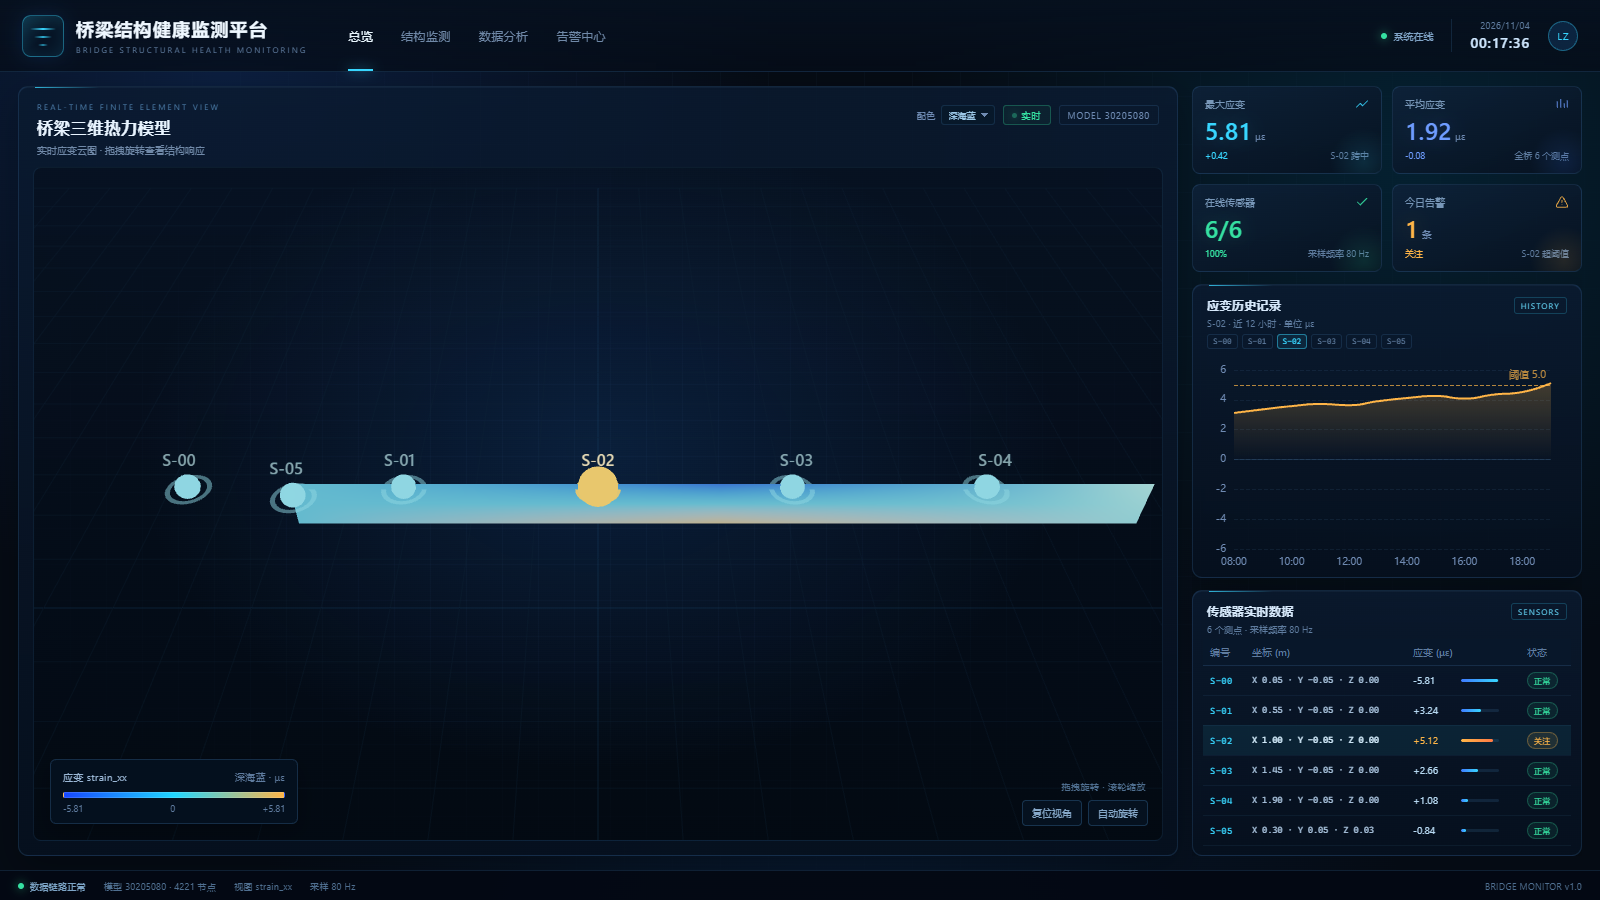
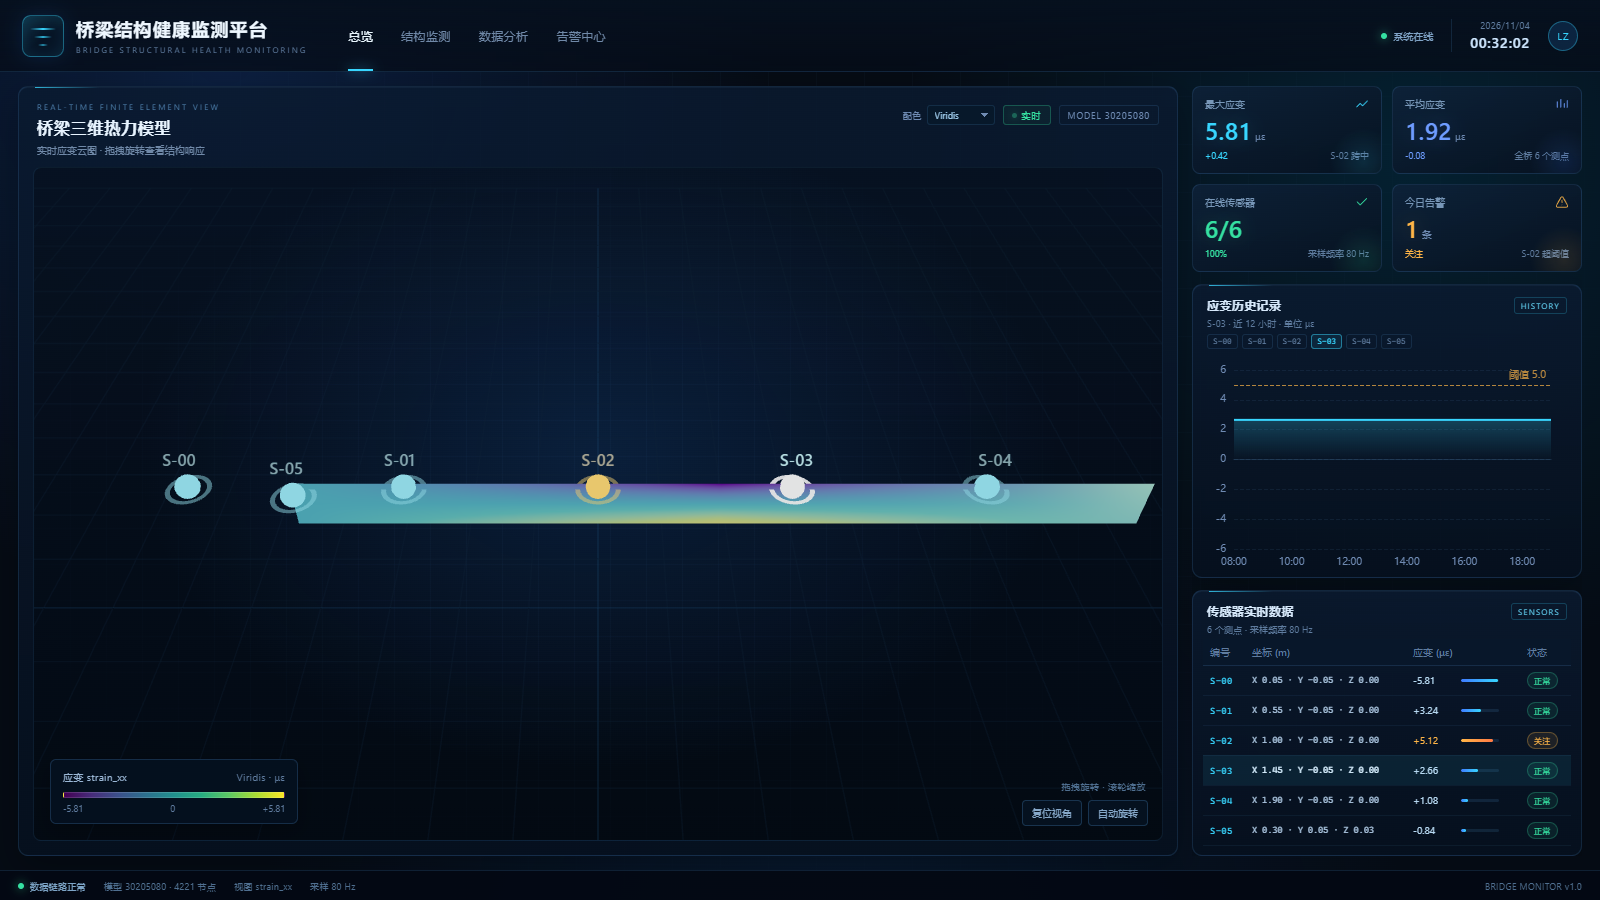
fix: use original palettes and refine sensor interactions

diff --git a/src/components/BridgeViewport.jsx b/src/components/BridgeViewport.jsx
@@ -58,7 +58,7 @@ function makeLabel(text, color) {
   return sprite
 }
 
-export default function BridgeViewport({ paletteName = 'ocean', selectedSensor = 'S-02', onSelectSensor }) {
+export default function BridgeViewport({ paletteName = 'viridis', selectedSensor = 'S-00', onSelectSensor }) {
   const hostRef = useRef(null)
   const controlsRef = useRef(null)
   const cameraRef = useRef(null)
@@ -72,7 +72,8 @@ export default function BridgeViewport({ paletteName = 'ocean', selectedSensor =
     selectedRef.current = selectedSensor
     sensorRefs.current.forEach((item, id) => {
       const active = id === selectedSensor
-      item.core.scale.setScalar(active ? 1.65 : 1)
+      item.core.material.color.set(active ? 0xffffff : item.baseColor)
+      item.ring.material.color.set(active ? 0xffffff : item.baseColor)
       item.ring.material.opacity = active ? 0.95 : 0.5
       item.label.material.opacity = active ? 1 : 0.72
     })
@@ -118,8 +119,8 @@ export default function BridgeViewport({ paletteName = 'ocean', selectedSensor =
     controls.enablePan = false
     controls.minDistance = 1.2
     controls.maxDistance = 7
-    controls.minPolarAngle = 0.12
-    controls.maxPolarAngle = Math.PI / 2.08
+    controls.minPolarAngle = 0.05
+    controls.maxPolarAngle = Math.PI - 0.05
     controls.autoRotate = false
     controls.autoRotateSpeed = 0.6
     controls.target.set(0, 0, 0)
@@ -200,7 +201,8 @@ export default function BridgeViewport({ paletteName = 'ocean', selectedSensor =
     const highlightSensors = (id) => {
       sensorRefs.current.forEach((item, sensorId) => {
         const active = sensorId === id
-        item.core.scale.setScalar(active ? 1.65 : 1)
+        item.core.material.color.set(active ? 0xffffff : item.baseColor)
+        item.ring.material.color.set(active ? 0xffffff : item.baseColor)
         item.ring.material.opacity = active ? 0.95 : 0.5
         item.label.material.opacity = active ? 1 : 0.72
       })
@@ -213,7 +215,8 @@ export default function BridgeViewport({ paletteName = 'ocean', selectedSensor =
       scene.add(group)
 
       sensors.forEach((sensor) => {
-        const color = sensor.status === 'warning' ? 0xffb547 : 0x38d6ff
+        const baseColor = sensor.status === 'warning' ? 0xffb547 : 0x38d6ff
+        const color = baseColor
         const position = new THREE.Vector3(
           (sensor.coord.x - center.x) * scale,
           0.075,
@@ -254,7 +257,7 @@ export default function BridgeViewport({ paletteName = 'ocean', selectedSensor =
         label.userData.sensorId = sensor.id
 
         group.add(core, ring, stem, label)
-        sensorRefs.current.set(sensor.id, { core, ring, label })
+        sensorRefs.current.set(sensor.id, { core, ring, label, baseColor })
       })
 
       highlightSensors(selectedRef.current)

diff --git a/src/data/palettes.js b/src/data/palettes.js
@@ -1,42 +1,41 @@
-export const palettes = {
-  ocean: {
-    label: '深海蓝',
-    stops: ['#1747ff', '#20d6ff', '#ffb547'],
-  },
-  viridis: {
-    label: 'Viridis',
-    stops: ['#440154', '#31688e', '#35b779', '#fde725'],
-  },
-  turbo: {
-    label: 'Turbo',
-    stops: ['#30123b', '#1ae4b6', '#fbbe2a', '#e34a33'],
-  },
-  coolwarm: {
-    label: '冷暖',
-    stops: ['#3b4cc0', '#dddddd', '#b40426'],
-  },
-}
+import colorMaps from './colorMaps.json'
+
+export const palettes = Object.fromEntries(
+  colorMaps.map((map) => [
+    map.name,
+    {
+      label: map.label || map.name,
+      stops: map.stops
+        .slice()
+        .sort((a, b) => a.value - b.value)
+        .map((stop) => ({
+          value: stop.value,
+          r: stop.r / 255,
+          g: stop.g / 255,
+          b: stop.b / 255,
+          color: `rgb(${stop.r}, ${stop.g}, ${stop.b})`,
+        })),
+    },
+  ])
+)
 
 export function gradientCss(stops) {
-  return `linear-gradient(90deg, ${stops.join(', ')})`
-}
-
-function hexToRgb(hex) {
-  const value = hex.replace('#', '')
-  return {
-    r: parseInt(value.slice(0, 2), 16) / 255,
-    g: parseInt(value.slice(2, 4), 16) / 255,
-    b: parseInt(value.slice(4, 6), 16) / 255,
-  }
+  const list = stops
+    .map((stop) => `${stop.color} ${(stop.value * 100).toFixed(2)}%`)
+    .join(', ')
+  return `linear-gradient(90deg, ${list})`
 }
 
 export function colorAt(stops, t) {
   const clamped = Math.max(0, Math.min(1, Number.isFinite(t) ? t : 0))
-  const scaled = clamped * (stops.length - 1)
-  const index = Math.min(stops.length - 2, Math.floor(scaled))
-  const local = scaled - index
-  const from = hexToRgb(stops[index])
-  const to = hexToRgb(stops[index + 1])
+  let index = 0
+  while (index < stops.length - 2 && clamped > stops[index + 1].value) {
+    index++
+  }
+  const from = stops[index]
+  const to = stops[Math.min(index + 1, stops.length - 1)]
+  const span = to.value - from.value
+  const local = span > 1e-9 ? (clamped - from.value) / span : 0
   return {
     r: from.r + (to.r - from.r) * local,
     g: from.g + (to.g - from.g) * local,

diff --git a/src/data/mock.js b/src/data/mock.js
@@ -10,6 +10,8 @@ export const timeLabels = [
   '14:00', '15:00', '16:00', '17:00', '18:00', '19:00',
 ]
 
+const flatHistory = (value) => Array(timeLabels.length).fill(value)
+
 export const sensors = [
   {
     id: 'S-00',
@@ -17,7 +19,7 @@ export const sensors = [
     coord: { x: 0.05, y: -0.05, z: 0 },
     strain: -5.81,
     status: 'normal',
-    history: [-4.92, -5.08, -5.21, -5.34, -5.18, -5.42, -5.55, -5.61, -5.48, -5.72, -5.66, -5.81],
+    history: flatHistory(-5.81),
   },
   {
     id: 'S-01',
@@ -25,7 +27,7 @@ export const sensors = [
     coord: { x: 0.55, y: -0.05, z: 0 },
     strain: 3.24,
     status: 'normal',
-    history: [2.71, 2.84, 2.92, 3.05, 2.96, 3.12, 3.21, 3.18, 3.29, 3.36, 3.3, 3.24],
+    history: flatHistory(3.24),
   },
   {
     id: 'S-02',
@@ -33,7 +35,7 @@ export const sensors = [
     coord: { x: 1.0, y: -0.05, z: 0 },
     strain: 5.12,
     status: 'warning',
-    history: [3.12, 3.36, 3.58, 3.72, 3.64, 3.91, 4.12, 4.26, 4.08, 4.35, 4.52, 5.12],
+    history: flatHistory(5.12),
   },
   {
     id: 'S-03',
@@ -41,7 +43,7 @@ export const sensors = [
     coord: { x: 1.45, y: -0.05, z: 0 },
     strain: 2.66,
     status: 'normal',
-    history: [2.12, 2.24, 2.3, 2.41, 2.36, 2.48, 2.55, 2.51, 2.6, 2.63, 2.59, 2.66],
+    history: flatHistory(2.66),
   },
   {
     id: 'S-04',
@@ -49,7 +51,7 @@ export const sensors = [
     coord: { x: 1.9, y: -0.05, z: 0 },
     strain: 1.08,
     status: 'normal',
-    history: [0.82, 0.91, 0.88, 1.02, 1.12, 1.04, 1.18, 1.22, 1.16, 1.28, 1.24, 1.08],
+    history: flatHistory(1.08),
   },
   {
     id: 'S-05',
@@ -57,7 +59,7 @@ export const sensors = [
     coord: { x: 0.3, y: 0.05, z: 0.03 },
     strain: -0.84,
     status: 'normal',
-    history: [-0.62, -0.68, -0.71, -0.69, -0.74, -0.78, -0.8, -0.76, -0.82, -0.79, -0.81, -0.84],
+    history: flatHistory(-0.84),
   },
 ]
 

diff --git a/src/components/SensorTable.jsx b/src/components/SensorTable.jsx
@@ -1,3 +1,4 @@
+import { useEffect, useRef } from 'react'
 import { sensors, statusText } from '../data/mock'
 
 function formatCoord(value) {
@@ -5,8 +6,22 @@ function formatCoord(value) {
 }
 
 export default function SensorTable({ selected, onSelect }) {
+  const scrollRef = useRef(null)
+  const rowRefs = useRef({})
+
+  useEffect(() => {
+    const container = scrollRef.current
+    const row = rowRefs.current[selected]
+    if (!container || !row) return
+    const headerHeight = container.querySelector('thead')?.offsetHeight || 0
+    container.scrollTo({
+      top: Math.max(0, row.offsetTop - headerHeight),
+      behavior: 'smooth',
+    })
+  }, [selected])
+
   return (
-    <div className="table-scroll">
+    <div className="table-scroll" ref={scrollRef}>
       <table className="sensor-table">
         <thead>
           <tr>
@@ -20,6 +35,7 @@ export default function SensorTable({ selected, onSelect }) {
           {sensors.map((sensor) => (
             <tr
               key={sensor.id}
+              ref={(element) => { rowRefs.current[sensor.id] = element }}
               className={sensor.id === selected ? 'is-selected' : ''}
               title={sensor.name}
               tabIndex={0}

diff --git a/src/App.jsx b/src/App.jsx
@@ -9,8 +9,8 @@ import { gradientCss, palettes } from './data/palettes'
 import './App.css'
 
 export default function App() {
-  const [paletteName, setPaletteName] = useState('ocean')
-  const [selectedSensor, setSelectedSensor] = useState('S-02')
+  const [paletteName, setPaletteName] = useState('viridis')
+  const [selectedSensor, setSelectedSensor] = useState('S-00')
   const activeSensor = sensors.find((sensor) => sensor.id === selectedSensor) || sensors[0]
   const palette = palettes[paletteName]
 

diff --git a/README.md b/README.md
@@ -13,9 +13,9 @@ A React dashboard for bridge structural health monitoring: a Three.js bridge hea
 ### Features
 
 - Six sensor markers drawn on the 3D bridge; click a marker, chip or table row to view that sensor's history
-- Switchable heatmap palettes: Ocean, Viridis, Turbo, Coolwarm
+- Switchable heatmap palettes: Viridis, Plasma, Inferno, Magma, Cividis, Turbo, Coolwarm, RdBu, Spectral, Grayscale, Jet (the original `colorMap.json` library)
 - 80 Hz sampling label, sensor ID / coordinates / strain / status table (no temperature field)
-- Flat default camera; reset view and optional auto-rotation
+- Flat default camera; full vertical orbit; reset view and optional auto-rotation
 
 ### Stack
 
@@ -48,6 +48,7 @@ src/
     SensorTable.jsx        sensor table
   data/mock.js             demo KPI / history / sensor data
   data/palettes.js         heatmap palettes and interpolation
+  data/colorMaps.json      original 11-palette library
 public/
   model.glb                bridge geometry
 docs/dashboard.png         preview image
@@ -73,9 +74,9 @@ docs/dashboard.png         preview image
 ### 功能
 
 - 三维桥梁上绘制 6 个传感器标记；点击标记、顶部芯片或表格行，查看该传感器的应变历史
-- 热力配色可切换：深海蓝、Viridis、Turbo、冷暖
+- 热力配色可切换：Viridis、Plasma、Inferno、Magma、Cividis、Turbo、Coolwarm、RdBu、Spectral、Grayscale、Jet（原版 `colorMap.json` 色板库）
 - 采样频率 80 Hz；表格显示编号 / 坐标 / 应变 / 状态（不显示温度）
-- 默认视角压平；支持复位视角和自动旋转
+- 默认视角压平；支持完整俯仰旋转、复位视角和自动旋转
 
 ### 技术栈
 
@@ -108,6 +109,7 @@ src/
     SensorTable.jsx        传感器表格
   data/mock.js             演示 KPI / 历史 / 传感器数据
   data/palettes.js         热力配色与插值
+  data/colorMaps.json      原版 11 套色板库
 public/
   model.glb                桥梁几何
 docs/dashboard.png         预览图
